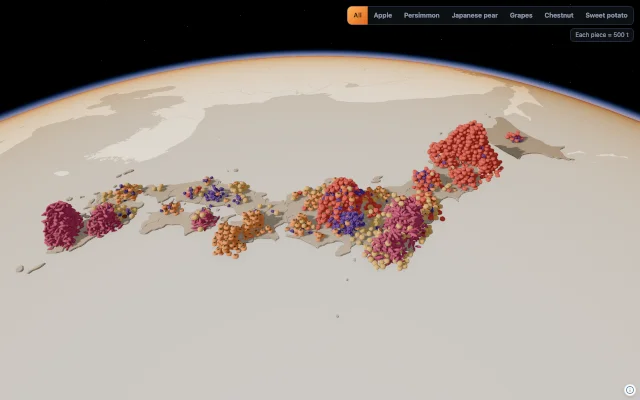
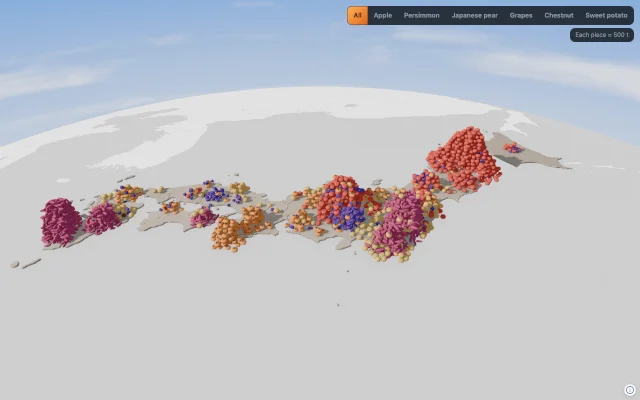
Day 23: a clear autumn sky behind the globe
From ~900 km up the real atmosphere leaves space over the rim: swap
Navara's sky and stars for a dome at infinity, pale haze at the Earth's
rim deepening to autumn blue, thin cirrus streaks across it. The
aerial perspective's rim reddening goes too (against blue it reads as
sunset), and the camera is lifted a little for more sky.

diff --git a/app/maps/lib/AutumnSkyMeshDesc.ts b/app/maps/lib/AutumnSkyMeshDesc.ts
@@ -1,0 +1,127 @@
+// A clear autumn sky for Navara, behind the globe: deep blue overhead fading to a pale haze at the
+// horizon, with thin wisps of high cloud (cirrus) drawn across it. Drawn at infinity behind
+// everything else (like SkyDomeMeshDesc), placed with `geodetic` so its zenith is that place's up.
+//
+// Seen from high above, the Earth's rim sits well below the level: `dip` (radians) moves the pale
+// horizon down to it, so the haze hugs the globe's edge, and the blue comes in over `span` above it.
+import { MeshDesc, type MeshConfig, type MeshUpdate } from '@navaramap/three'
+import { BackSide, Color, Mesh, ShaderMaterial, SphereGeometry } from 'three'
+
+type AutumnSkyOptions = {
+  /** Linear colours */
+  horizon: Color
+  zenith: Color
+  cloud: Color
+  /** How far below the level the rim of the Earth is (radians) */
+  dip?: number
+  /** Angle above the rim (radians) over which the haze turns to full blue */
+  span?: number
+  /** Peak cloud opacity, 0-1 */
+  cloudiness?: number
+}
+type Description = { autumnSky?: AutumnSkyOptions }
+export type AutumnSkyConfig = MeshConfig & Description
+type AutumnSkyUpdate = MeshUpdate & Description
+
+const vertexShader = /* glsl */ `
+  varying vec3 vDir;
+  void main() {
+    vDir = normalize(position);
+    // w = 0: rotation only, so the dome sits at infinity round the camera; z = w pins it to the far plane
+    vec4 p = projectionMatrix * vec4(mat3(viewMatrix) * mat3(modelMatrix) * position, 0.0);
+    p.z = p.w;
+    gl_Position = p;
+  }
+`
+
+const fragmentShader = /* glsl */ `
+  uniform vec3 uHorizon;
+  uniform vec3 uZenith;
+  uniform vec3 uCloud;
+  uniform float uDip;
+  uniform float uSpan;
+  uniform float uCloudiness;
+  varying vec3 vDir;
+
+  float hash(vec3 p) {
+    p = fract(p * 0.3183099 + 0.1);
+    p *= 17.0;
+    return fract(p.x * p.y * p.z * (p.x + p.y + p.z));
+  }
+  float noise(vec3 x) {
+    vec3 i = floor(x);
+    vec3 f = fract(x);
+    f = f * f * (3.0 - 2.0 * f);
+    return mix(
+      mix(mix(hash(i), hash(i + vec3(1, 0, 0)), f.x), mix(hash(i + vec3(0, 1, 0)), hash(i + vec3(1, 1, 0)), f.x), f.y),
+      mix(mix(hash(i + vec3(0, 0, 1)), hash(i + vec3(1, 0, 1)), f.x), mix(hash(i + vec3(0, 1, 1)), hash(i + vec3(1, 1, 1)), f.x), f.y),
+      f.z);
+  }
+  float fbm(vec3 p) {
+    float v = 0.0;
+    float a = 0.5;
+    for (int i = 0; i < 5; i++) {
+      v += a * noise(p);
+      p = p * 2.03 + vec3(1.7, 9.2, 3.1);
+      a *= 0.5;
+    }
+    return v;
+  }
+
+  void main() {
+    vec3 d = normalize(vDir);
+    // Angle above the Earth's rim, over the span in which the haze turns to full blue (from high
+    // up only a strip of sky shows over the rim, so the blue has to come in quickly)
+    float h = clamp((asin(clamp(d.y, -1.0, 1.0)) + uDip) / uSpan, 0.0, 1.0);
+    vec3 sky = mix(uHorizon, uZenith, pow(h, 0.55));
+
+    // Cirrus: noise stretched flat (long, thin streaks lying along the sky), bent by a slower warp,
+    // thinning out toward the rim and the zenith
+    vec3 q = d * vec3(2.2, 18.0, 2.2);
+    q.xz += vec2(fbm(d * 3.0), fbm(d * 3.0 + 5.2)) * 1.6;
+    float wisp = smoothstep(0.52, 0.8, fbm(q));
+    float band = smoothstep(0.04, 0.3, h);
+    gl_FragColor = vec4(mix(sky, uCloud, wisp * band * uCloudiness), 1.0);
+  }
+`
+
+export class AutumnSkyMeshDesc extends MeshDesc<AutumnSkyConfig, AutumnSkyUpdate, Mesh<SphereGeometry, ShaderMaterial>> {
+  private config: AutumnSkyConfig
+  private material?: ShaderMaterial
+
+  constructor(...args: ConstructorParameters<typeof MeshDesc<AutumnSkyConfig, AutumnSkyUpdate>>) {
+    super(...args)
+    this.config = args[2] ?? {}
+  }
+
+  override createMesh() {
+    const { horizon, zenith, cloud, dip = 0, span = 0.4, cloudiness = 0.6 } = this.config.autumnSky!
+    const material = new ShaderMaterial({
+      vertexShader,
+      fragmentShader,
+      uniforms: {
+        uHorizon: { value: horizon },
+        uZenith: { value: zenith },
+        uCloud: { value: cloud },
+        uDip: { value: dip },
+        uSpan: { value: span },
+        uCloudiness: { value: cloudiness },
+      },
+      side: BackSide,
+      depthWrite: false,
+      transparent: true,
+    })
+    this.material = material
+    const mesh = new Mesh(new SphereGeometry(1, 64, 32), material)
+    mesh.frustumCulled = false
+    mesh.renderOrder = -1
+    return mesh
+  }
+
+  override onDestroy(): void {
+    const mesh = this.raw
+    super.onDestroy()
+    mesh?.geometry.dispose()
+    this.material?.dispose()
+  }
+}

diff --git a/app/maps/day23.vue b/app/maps/day23.vue
@@ -2,7 +2,7 @@
 // Day 23: Senses: Taste — autumn's flavours heaped on Japan itself: each prefecture's 2025 crop of
 // apples, persimmons, pears, grapes, chestnuts and sweet potatoes, one piece of fruit per so many
 // tonnes shipped, dropped onto it in the low sun of an October afternoon. Navara: the prefectures
-// as matte stone slabs on a light world map under the sky, lit like food on a table (the sun
+// as matte stone slabs on a light world map under a clear autumn sky, lit like food on a table (the sun
 // low, a cool fill), the sun's cascaded shadows off the heaps telling one prefecture's from the
 // next, and ambient occlusion in their hollows. It renders only while something moves. (The same in plain
 // Three.js, on a wooden jigsaw of Japan: the hidden page /day/23-three.)
@@ -13,6 +13,7 @@ import { TileJsonPlugin } from '@navaramap/three-plugins'
 import { FRUIT_KEYS, makeFruits, type Fruit, type FruitKey } from './lib/harvestFruits'
 import { buildHeaps, landOf, prefAt, type Placement, type Ring } from './lib/harvestHeaps'
 import { HarvestHeapsMeshDesc, type HarvestHeapsConfig } from './lib/HarvestHeapsMeshDesc'
+import { AutumnSkyMeshDesc, type AutumnSkyConfig } from './lib/AutumnSkyMeshDesc'
 import { HarvestLandMeshDesc, type HarvestLandConfig } from './lib/HarvestLandMeshDesc'
 import { toPlan } from './lib/japanLcc'
 import { Color as ThreeColor, Vector3 } from 'three'
@@ -47,7 +48,12 @@ const DATE = new Date('2025-10-25T04:30:00Z')
 const CYCLE_S = 9
 // A quiet backdrop for the fruit: a light world map under the sky, Japan in pale stone; the sun's
 // colour from the atmosphere, the fill cool
-const BACKGROUND = '#08090b'
+const BACKGROUND = '#cfe2f3'
+// Behind the globe, a clear autumn sky rather than space: deep blue fading to a pale haze at the
+// Earth's rim, thin high cloud across it
+const SKY = { horizon: '#d8e8f4', zenith: '#2c6ccc', cloud: '#ffffff' }
+// How far below the level the rim of the Earth looks from the camera's height (~900 km up)
+const RIM_DIP = 0.5
 const EXPOSURE = 2.2
 const LAND = '#b5a892'
 // The prefectures' slabs, thick enough to stand up off the map; the grooves between them (2.4 km,
@@ -109,7 +115,7 @@ function cameraFor(aspect: number) {
   const t = Math.min(1, Math.max(0, (1.3 - aspect) / 0.7))
   const lerp = (a: number, b: number) => a + (b - a) * t
   const bearing = (lerp(150, 215) * Math.PI) / 180 // from the target to the camera
-  const up = (lerp(40, 44) * Math.PI) / 180
+  const up = (lerp(34, 40) * Math.PI) / 180
   const dist = lerp(1_380_000, 2_500_000)
   const offset = new Vector3(Math.sin(bearing) * Math.cos(up), Math.cos(bearing) * Math.cos(up), Math.sin(up)).multiplyScalar(dist)
   return { target: { lng: lerp(137.1, 136.0), lat: lerp(36.3, 35.6), height: 0 }, offset }
@@ -139,14 +145,24 @@ onMounted(async () => {
   if (view !== v) return // unmounted while initializing
   v.registerMesh('harvestHeaps', HarvestHeapsMeshDesc)
   v.registerMesh('harvestLand', HarvestLandMeshDesc)
+  v.registerMesh('autumnSky', AutumnSkyMeshDesc)
   v.atmosphere.date = DATE
 
   // Navara's sky, sun and stars. From this far off the atmosphere's haze would wash the fruit
   // out: keep the sky, drop the haze. The sun's shadows reach across the whole of Japan (3
   // cascades are enough at this distance); a cool fill; ambient occlusion between the pieces
   const scene = plugin.addDefaultPhotorealScene()
+  // Its sky is black space from up here: swap it (and the stars) for the autumn one
+  scene.sky.delete()
+  scene.stars.delete()
+  const skyConfig: AutumnSkyConfig = {
+    autumnSky: { horizon: new ThreeColor(SKY.horizon), zenith: new ThreeColor(SKY.zenith), cloud: new ThreeColor(SKY.cloud), dip: RIM_DIP },
+    geodetic: { lng: 137, lat: 36, height: 0 },
+  }
+  v.addMesh<AutumnSkyMeshDesc>(skyConfig)
   v.toneMappingExposure = EXPOSURE
-  scene.aerialPerspective.update({ aerialPerspective: { inscatter: false } })
+  // (and its reddening at the Earth's rim, which against a blue sky reads as sunset)
+  scene.aerialPerspective.update({ aerialPerspective: { inscatter: false, transmittance: false } })
   scene.sun.update({
     sun: {
       intensity: SUN_INTENSITY,

diff --git a/docs/day23.md b/docs/day23.md
@@ -4,7 +4,7 @@
 
 同じ山を 2 つのやり方で描いている:
 
-- **Navara 版（`/day/23`）**: 空と大気の下、明るい世界地図の上で、日本だけを県ごとの石のような板にして、その上に積む。低い太陽と青みの補助光で料理写真のように照らし、山の影が隣の県との区別をつける。Navara の表現力（空と大気、太陽のカスケード影、SSAO、自作の描画部品）を試すのが目的。
+- **Navara 版（`/day/23`）**: 秋の青空の下、明るい世界地図の上で、日本だけを県ごとの石のような板にして、その上に積む。低い太陽と青みの補助光で料理写真のように照らし、山の影が隣の県との区別をつける。Navara の表現力（太陽のカスケード影、SSAO、自作の描画部品）を試すのが目的。
 - **Three.js 版（`/day/23-three`、どこからもリンクしない隠しページ）**: 木の日本地図パズルの上に積む。平らな板と机だけの、素の Three.js。
 
 | ファイル | 役割 |
@@ -17,6 +17,7 @@
 | `app/maps/lib/HarvestHeapsMeshDesc.ts` | Navara 版の果物。品目ごとの `InstancedMesh` を地球の上に立て、落とす |
 | `app/maps/lib/HarvestLandMeshDesc.ts` | Navara 版の地面。県ごとの板、溝の底の台座、地図の日本を隠す面を、地球の曲面に沿わせて敷く |
 | `app/maps/lib/landGeometry.ts` | 地面の平らな形（板の押し出し、大きな面の分割） |
+| `app/maps/lib/AutumnSkyMeshDesc.ts` | Navara 版の空。地球の後ろの秋の青空と薄い筋雲 |
 | `app/maps/day23.vue` | Navara 版のページ。地球、光と影、切り替え、ホバーの値 |
 | `app/maps/day23-three.vue` / `app/pages/day/23-three.vue` | Three.js 版。パズル、光と影 |
 
@@ -102,7 +103,7 @@ All はすべて同じ 500 t なので、品目どうしを比べられる（栗
 
 最初は写実的な地球（地形と衛星画像、空と大気）の上に積んだが、主役は果物で、衛星画像は要らなかった。いったん背景を黒一色にしたあと、Navara らしさとして空と世界地図を戻した。今は次のとおり。
 
-- **空と世界**: `addDefaultPhotorealScene()` の空・星・太陽・トーンマッピング・アンチエイリアス。大気遠近法の散乱光（`inscatter`）は切る: 1,000 km 上空から見下ろすと、果物が白っぽいピンクに洗われるため。世界地図は Re:Earth Papers の `papers-light`（Navara の公式サンプルと同じ地図の明るい版。陸は白、海は明るい灰色で、文字がない）。最初は暗い版（`papers-dark`）にしていたが、海が真っ黒で、画面全体がどことなく暗くなっていた。
+- **空と世界**: `addDefaultPhotorealScene()` の太陽・空の光・トーンマッピング・アンチエイリアス。**空は秋の青空に差し替える**（`AutumnSkyMeshDesc.ts`）: 高度 1,000 km 近くから見ると、地平線の上は本物の大気では黒い宇宙になるので、Navara の空と星を外し、無限遠に描くドームに、地球の縁の淡いもやから深い青へのグラデーションと、薄い筋雲（横に引き伸ばしたノイズ）を描く。この高さでは地球の縁が水平より約 0.5 rad 下に見えるので、グラデーションはそこから測り、0.4 rad で青になりきる（見えている空は縁の上の細い帯だけなので）。大気遠近法は、散乱光（`inscatter`、果物が白っぽいピンクに洗われる）と透過（`transmittance`、地球の縁が赤らみ、青空の前では夕焼けに見える）の両方を切る。世界地図は Re:Earth Papers の `papers-light`（Navara の公式サンプルと同じ地図の明るい版。陸は白、海は明るい灰色で、文字がない）。最初は暗い版（`papers-dark`）にしていたが、海が真っ黒で、画面全体がどことなく暗くなっていた。
 
 - **地面**: 3 層。下から:
   1. **地図の日本を隠す面**: 下の地図（`papers-light`）の海の色（`#bfbfbf`、タイルから実測）で、光を受けない面。間引いて丸めた海岸線のまわりに、地図の本物の海岸線や小さな島がちらちら見えていたので、それを海で塗りつぶす。
